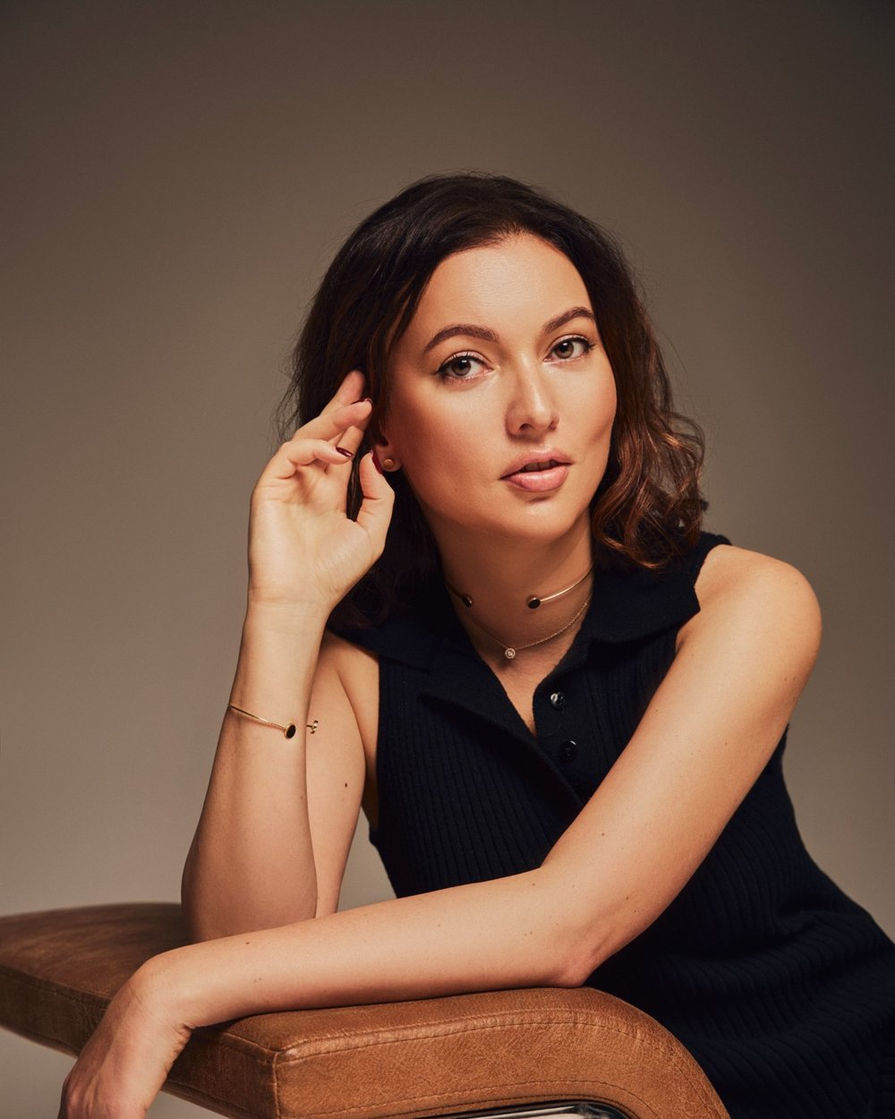
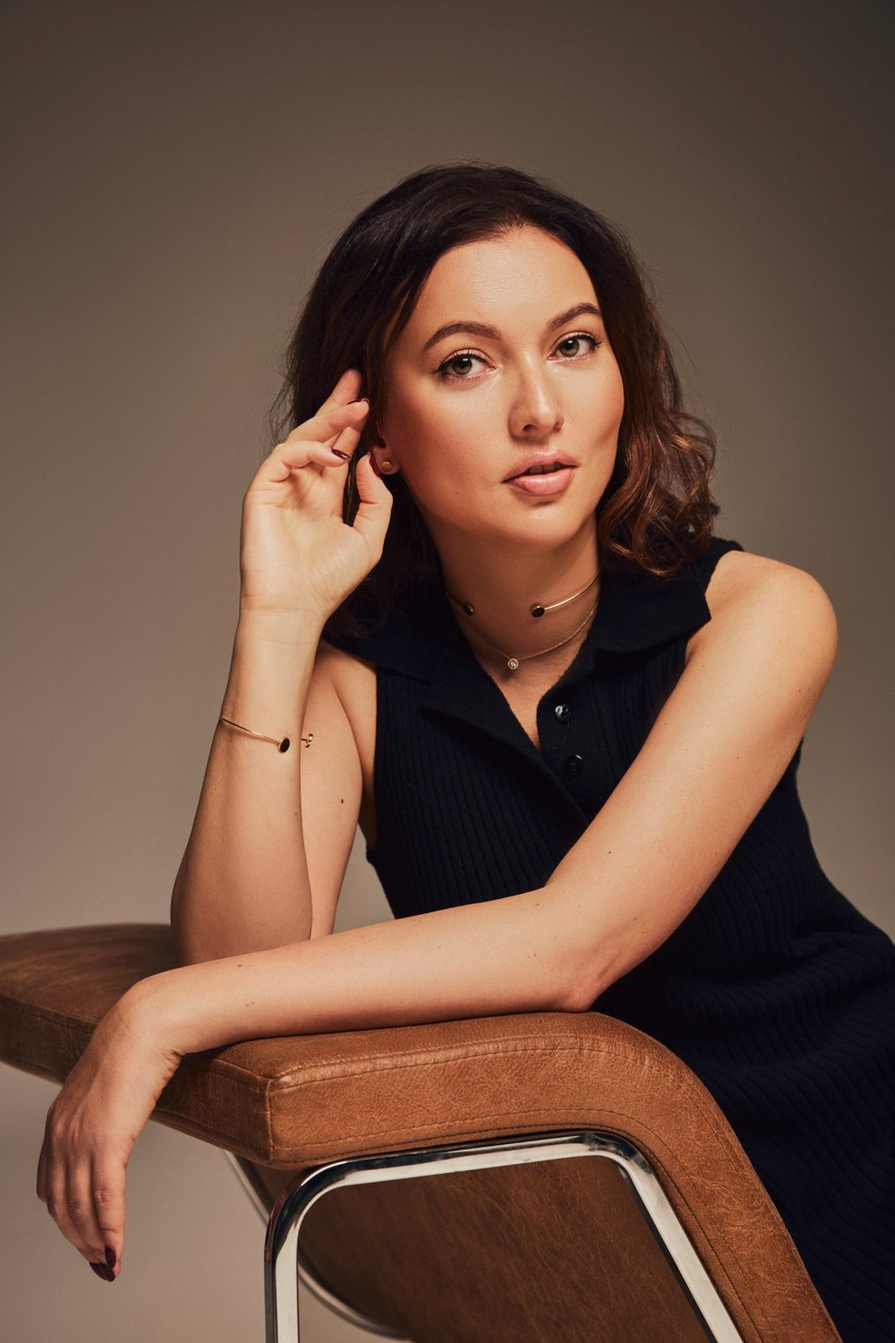
Add files via upload

diff --git a/assets/css/style.css b/assets/css/style.css
@@ -44,7 +44,7 @@
     padding-block: 0 48px;
     -webkit-font-smoothing: antialiased;
   }
-  .wrap { max-width: 1120px; margin-inline: auto; }
+  .wrap { max-width: 1320px; margin-inline: auto; }
   a { color: inherit; }
   a:focus-visible, button:focus-visible { outline: 2px solid var(--accent); outline-offset: 3px; border-radius: 4px; }
 
@@ -394,12 +394,11 @@
 }
 
 /* ---------- portrait & gallery ---------- */
-.portrait { margin: 0; justify-self: end; width: 100%; max-width: 400px; }
+.portrait { margin: 0; justify-self: center; width: 100%; max-width: 440px; padding: 18px; }
 .portrait img {
   display: block;
   width: 100%;
-  aspect-ratio: 4 / 5;
-  object-fit: cover;
+  height: auto;
   border-radius: 6px;
   background: var(--surface);
 }
@@ -429,7 +428,7 @@
 .gallery a:hover img { transform: scale(1.04); }
 @media (max-width: 1000px) { .gallery { grid-template-columns: repeat(2, minmax(0, 1fr)); } }
 @media (prefers-reduced-motion: reduce) { .gallery img { transition: none; } .gallery a:hover img { transform: none; } }
-@media (max-width: 820px) { .portrait { justify-self: start; max-width: 420px; } }
+@media (max-width: 820px) { .portrait { justify-self: start; max-width: 420px; padding: 0; } }
 
 /* ---------- header on narrow screens: full menu on its own row ---------- */
 .bar nav { align-items: center; }

diff --git a/uk/index.html b/uk/index.html
@@ -19,7 +19,7 @@ image: /images/og-card-uk.jpg
       </div>
 
       <figure class="portrait">
-        <img src="{{ '/images/anna-aleshko-portrait-v2.jpg' | relative_url }}" width="1000" height="1250" alt="Студійний портрет Анни Алешко, креативної директорки">
+        <img src="{{ '/images/anna-aleshko-portrait-v2.jpg' | relative_url }}" width="1000" height="1500" alt="Студійний портрет Анни Алешко, креативної директорки">
         <figcaption class="label">Анна Алешко · Київ</figcaption>
       </figure>
     </div>

diff --git a/index.html b/index.html
@@ -18,7 +18,7 @@ image: /images/og-card.jpg
       </div>
 
       <figure class="portrait">
-        <img src="{{ '/images/anna-aleshko-portrait-v2.jpg' | relative_url }}" width="1000" height="1250" alt="Studio portrait of Anna Aleshko, AI-powered creative director">
+        <img src="{{ '/images/anna-aleshko-portrait-v2.jpg' | relative_url }}" width="1000" height="1500" alt="Studio portrait of Anna Aleshko, AI-powered creative director">
         <figcaption class="label">Anna Aleshko · Kyiv</figcaption>
       </figure>
     </div>

diff --git a/uk/_posts/2026-11-08-yak-zaroblyaty-na-ai-u-2026.md b/uk/_posts/2026-11-08-yak-zaroblyaty-na-ai-u-2026.md
@@ -1,0 +1,137 @@
+---
+title: "Як заробляти на AI у 2026: 6 напрямів, які реально платять"
+description: "Повний розбір: де бренди справді платять за роботу з нейромережами, скільки коштують послуги на ринку, як знайти перших клієнтів без портфоліо і яких помилок уникати."
+ref: make-money-with-ai-2026
+image: /images/og-card-uk.jpg
+tags: [AI, заробіток, фриланс, UGC, креативи, нейромережі, 2026]
+---
+
+За останні два роки я чула два протилежні твердження. Перше: «на AI зараз заробляють усі». Друге: «AI забере роботу, і платити більше не будуть». Обидва неправильні.
+
+Правда простіша. Платять не за доступ до нейромережі: він коштує кілька доларів на місяць і є в усіх. Платять за **результат, який клієнт не може отримати сам**: за смак, швидкість і розуміння того, що потрібно бізнесу.
+
+Нижче — шість напрямів, де у 2026 році справді є гроші, з орієнтирами цін, прикладами задач і порядком дій для старту.
+
+## Коротко: що змінилося на ринку
+
+Три роки тому платили за саме вміння користуватися нейромережею. Зараз цим нікого не здивуєш: інструменти є в усіх, інтерфейси стали простими, базова якість зросла.
+
+Тому цінність перемістилася в інше місце:
+
+- **раніше:** «я вмію генерувати зображення»;
+- **тепер:** «я закрию вашу задачу за три дні, у вашому стилі, з правами на використання».
+
+Клієнт платить не за процес, а за зняту з себе проблему. Усе, що написано далі, випливає саме з цього.
+
+## 1. Рекламні креативи для брендів
+
+Найбільший і найстабільніший попит. Бренду потрібна не одна картинка, а десятки варіантів для тестів у таргеті: різні заголовки, сцени, акценти, формати під стрічку й сторіс.
+
+AI змінив тут економіку. Те, що раніше вимагало зйомки й кількох днів ретуші, робиться за день. Бренд платить за те, що завтра зможе запустити кампанію, а не за «генерацію».
+
+**Типові задачі:** серія банерів для запуску, варіації одного креативу для A/B-тесту, сезонне оновлення, адаптація під різні майданчики.
+
+**Орієнтир на ринку:** від $150–200 за набір креативів. Далі ціна залежить від кількості варіацій, термінів і прав на використання.
+
+**Кому продавати:** магазинам, сервісам, застосункам, усім, хто вже витрачає гроші на таргет. Якщо бізнес платить за рекламу, він платитиме і за креативи до неї.
+
+## 2. UGC-відео
+
+Живі відеоогляди, розпаковки, демонстрації продукту. Парадокс 2026 року: що більше навколо згенерованого контенту, то дорожче цінується справжня людина в кадрі.
+
+AI допомагає тут не в кадрі, а навколо нього: сценарії, варіанти перших трьох секунд, субтитри, адаптація одного зйомочного дня під кілька платформ.
+
+**Орієнтир:** [початківці отримують $50–150 за відео, досвідчені креатори — $250–500](https://mate.academy/blog/tips/ugc-creator-is). Українські креатори часто пропонують UGC [від 3 500 грн](https://boginya.pics/).
+
+**Важливо:** UGC — це контент, який бренд отримує й використовує у своїй рекламі. Публікація у вас — окрема послуга й окремі гроші.
+
+## 3. Реклама на власних сторінках
+
+Якщо у вас є аудиторія, ви продаєте не контент, а доступ до неї плюс довіру.
+
+**Орієнтир:** мікроблогери з аудиторією 10–25 тис. беруть [$150–500 за Reels](https://influencerfee.com/blog/instagram-micro-influencer-rates/). В Україні сторіс коштує [від 360 до 2 000 грн, допис — від 1 500 грн](https://web-promo.ua/ua/blog/reklama-v-ukrayinskih-instagram-blogeriv-use-pro-vartist-formati-spivpraci-ta-korist-dlya-brendu/).
+
+**Що впливає на ціну більше за кількість підписників:**
+
+- скільки людей справді дивиться ваші ролики, а не просто підписані;
+- чи купують за вашою рекомендацією;
+- ніша: фінанси, нерухомість і б'юті платять більше за розважальний контент;
+- права на використання: якщо бренд хоче крутити ваш ролик як рекламу зі свого акаунта, це **плюс 30–50%** до ціни за кожен місяць.
+
+## 4. Візуали для продуктів і каталогів
+
+Невеликий бренд не може дозволити собі зйомку в кожній локації й під кожен сезон. AI дає можливість показати той самий товар у десятках середовищ.
+
+Це закриває реальний і регулярний біль: картки товару, банери, обкладинки, оновлення до свят. Робота повторювана, а отже з'являються постійні клієнти, а не разові замовлення.
+
+**Орієнтир:** від $60 за зображення, набори з 10 зображень в одному стилі — від $450.
+
+## 5. Презентації та пітч-деки
+
+Недооцінений напрям із високим чеком. Компанії постійно потребують презентацій для інвесторів, клієнтів і партнерів, а роблять їх зазвичай погано: багато тексту, випадкові шрифти, жодної логіки.
+
+З AI ви швидше збираєте структуру, тексти й візуали. Клієнт бачить різницю між «слайдами» й документом, який продає за нього.
+
+**Орієнтир:** від $250 за презентацію до 15 слайдів зі структурою й текстами.
+
+## 6. Консультації та навчання
+
+Більшість компаній досі не знає, як вбудувати AI у щоденну роботу. Їм не потрібен курс на 40 годин. Їм потрібна людина, яка за дві години покаже це на їхніх власних задачах.
+
+**Формати, які купують:** консультація на годину, аудит контенту чи реклами з письмовим списком дій, воркшоп для команди маркетингу.
+
+**Орієнтир:** від $60 за консультацію, від $300 за воркшоп для команди.
+
+## Як почати без портфоліо
+
+Найчастіше людей зупиняє те, що нема чого показати. Це вирішується за тиждень.
+
+1. **Оберіть один напрям**, а не всі шість. Клієнт шукає спеціаліста під задачу, а не «людину, яка вміє все».
+2. **Зробіть три роботи для себе.** Візьміть реальні бренди, які вам подобаються, і зробіть для них креативи так, ніби вас уже найняли.
+3. **Покажіть процес, а не лише результат.** Було й стало, чому саме така сцена, скільки часу зайняло.
+4. **Напишіть п'яти брендам.** Не «пропоную послуги», а «зробила для вас три варіанти, ось вони, можу зробити ще під ваш запуск».
+5. **Назвіть ціну в першому ж листі.** Це економить час обом і одразу відсіює тих, хто шукає роботу за безцінь.
+
+## П'ять помилок, через які не виходить заробляти
+
+- **Продають інструмент, а не користь.** «Я працюю з Midjourney» нікого не цікавить. «10 креативів для тесту за три дні» — цікавить.
+- **Беруть надто мало.** Низька ціна не приводить хороших клієнтів. Вона приводить тих, хто торгується за кожну правку.
+- **Віддають сирий результат.** Нейромережа дає 80%. Саме останні 20% — ретуш, кадрування, деталі, перевірка тексту на зображенні — відрізняють роботу за $50 від роботи за $300.
+- **Не домовляються про межі.** Скільки кіл правок входить у ціну, що таке «ще один варіант», коли робота вважається завершеною. Без цього будь-який проєкт тягнеться місяцями.
+- **Чекають ідеального моменту.** Ринок рухається швидше за будь-яке навчання. Перший клієнт навчить більшого, ніж третій курс.
+
+## Що насправді дає перевагу у 2026
+
+Доступ до моделей зрівнявся. Залишилося три речі, які не копіюються:
+
+1. **Смак.** Уміння обрати з сотні варіантів той, що працює на бренд. Саме це бренди й купують, коли платять дорожче.
+2. **Швидкість.** Клієнт платить за те, що отримає результат завтра, а не за місяць.
+3. **Розуміння бізнесу.** Коли ви говорите про продажі, аудиторію й терміни, а не про проміпти, змінюється сам рівень розмови й ціна в ній.
+
+## Поширені запитання
+
+**Чи потрібно вміти малювати?**
+Ні. Потрібне око: розуміння композиції, світла й того, що виглядає дешево. Це тренується переглядом хорошої реклами й практикою.
+
+**Скільки часу до перших грошей?**
+За моїми спостереженнями, перше оплачене замовлення зазвичай приходить через 1–2 місяці системної роботи: портфоліо плюс регулярні звернення до брендів. Не через рекламу себе, а через конкретні пропозиції.
+
+**Який інструмент обрати?**
+Будь-який із великих. Важливіше опанувати один глибоко, ніж п'ять поверхово. Для текстів і структури — ChatGPT, Claude або Gemini; для зображень і відео — те, що краще лягає на ваш стиль.
+
+**Чи не зникне ця робота?**
+Зникає рутина, а не робота. Зникне той, хто продає натискання кнопки. Залишиться той, хто відповідає за результат перед бізнесом.
+
+**Як рахувати ціну?**
+Не за годинами, а за цінністю для клієнта й правами на використання. Ролик, який крутитимуть у платній рекламі три місяці, коштує дорожче за той самий ролик для однієї публікації.
+
+## З чого почати цього тижня
+
+- Оберіть один напрям зі списку вище.
+- Зробіть три роботи в портфоліо, навіть без замовника.
+- Напишіть п'яти брендам, чий продукт вам подобається.
+- Зафіксуйте свій прайс і не знижуйте його на перших переговорах.
+
+Мої власні ціни на креативи, UGC, візуали, презентації та консультації відкрито лежать на сторінці [«Послуги та ціни»](/uk/rates/) — можете орієнтуватися на них, формуючи власні. Про те, які задачі бренду закривають AI-візуали, я писала в статті [«AI-візуали в рекламі»](/uk/blog/ai-vizualy-v-reklami-dlia-brendiv/).
+
+Якщо хочете обговорити конкретний проєкт, пишіть на [an.aleshko@gmail.com](mailto:an.aleshko@gmail.com).

diff --git a/_posts/2026-11-08-how-to-make-money-with-ai-in-2026.md b/_posts/2026-11-08-how-to-make-money-with-ai-in-2026.md
@@ -1,0 +1,137 @@
+---
+title: "How to Make Money with AI in 2026: 6 Directions That Actually Pay"
+description: "A full breakdown: where brands really pay for AI work, what the market rates are, how to find first clients without a portfolio, and the mistakes to avoid."
+ref: make-money-with-ai-2026
+image: /images/og-card.jpg
+tags: [AI, freelance, UGC, ad creative, income, prompting, 2026]
+---
+
+For two years I've been hearing two opposite claims. One: everyone is making money with AI now. Two: AI will take the work and nobody will pay for it. Both are wrong.
+
+The truth is simpler. Nobody pays for access to a model — it costs a few dollars a month and everyone has it. People pay for **a result they can't produce themselves**: taste, speed, and an understanding of what a business actually needs.
+
+Below are six directions where the money really is in 2026, with market rates, typical tasks, and a way to start.
+
+## What changed in the market
+
+Three years ago, knowing how to use a model was the skill being paid for. That's over: everyone has the tools, the interfaces got simple, baseline quality went up.
+
+So the value moved:
+
+- **before:** "I can generate images";
+- **now:** "I'll solve this in three days, in your style, with usage rights included."
+
+Clients pay for a problem taken off their plate, not for a process. Everything below follows from that.
+
+## 1. Ad creatives for brands
+
+The biggest and steadiest demand. A brand doesn't need one image, it needs dozens of variations to test in paid ads: different headlines, scenes, emphasis, formats for feed and stories.
+
+AI changed the economics. What used to need a shoot and days of retouching takes a day. The brand is paying to launch tomorrow.
+
+**Typical tasks:** a banner set for a launch, variations for an A/B test, seasonal refresh, adaptation across platforms.
+
+**Market reference:** from $150–200 per set of creatives, scaling with volume, deadlines and usage rights.
+
+**Who to sell to:** shops, services, apps — anyone already spending on paid ads. If a business pays for traffic, it will pay for the creatives behind it.
+
+## 2. UGC video
+
+Honest reviews, unboxings, product demos. The paradox of 2026: the more generated content there is, the more a real person on camera is worth.
+
+AI helps around the frame rather than in it: scripts, hook variations, captions, turning one shooting day into content for several platforms.
+
+**Market reference:** [beginners earn $50–150 per video, experienced creators $250–500](https://mate.academy/blog/tips/ugc-creator-is).
+
+**Important:** UGC is content the brand receives and uses in its own ads. Publishing it on your channels is a separate service with a separate fee.
+
+## 3. Sponsored content on your own channels
+
+If you have an audience, you're not selling content. You're selling access to it, plus the trust attached to you.
+
+**Market reference:** micro creators with 10–25K followers charge [$150–500 per Reel](https://influencerfee.com/blog/instagram-micro-influencer-rates/).
+
+**What moves the price more than follower count:**
+
+- how many people actually watch, not how many follow;
+- whether people buy on your recommendation;
+- your niche — finance, real estate and beauty pay more than entertainment;
+- usage rights: if the brand wants to run your video as an ad from its own account, that's **30–50% more** for every month of use.
+
+## 4. Product and catalogue visuals
+
+A small brand can't shoot in every location and for every season. AI lets the same product appear in dozens of settings.
+
+This solves a recurring pain: product cards, banners, covers, holiday updates. Repetitive work means retained clients instead of one-off jobs.
+
+**Market reference:** from $60 per image; sets of 10 images in one style from $450.
+
+## 5. Presentations and pitch decks
+
+An underrated direction with a high ticket. Companies constantly need decks for investors, clients and partners, and most decks are bad: too much text, random fonts, no logic.
+
+With AI you build structure, copy and visuals far faster. The client sees the difference between "slides" and a document that sells on their behalf.
+
+**Market reference:** from $250 for a deck of up to 15 slides including structure and copy.
+
+## 6. Consulting and training
+
+Most companies still don't know how to fit AI into daily work. They don't want a 40-hour course. They want someone who shows them in two hours, using their own tasks.
+
+**Formats that sell:** a one-hour consultation, an audit of content or ads with a written action list, a workshop for a marketing team.
+
+**Market reference:** from $60 for a consultation, from $300 for a team workshop.
+
+## How to start without a portfolio
+
+What stops most people is having nothing to show. That takes a week to fix.
+
+1. **Pick one direction**, not all six. Clients look for a specialist for a task, not someone who does everything.
+2. **Make three pieces for yourself.** Take real brands you like and make work for them as if you'd been hired.
+3. **Show the process, not just the result.** Before and after, why this scene, how long it took.
+4. **Write to five brands.** Not "I offer services", but "I made three options for you, here they are, I can do more for your launch".
+5. **Name your price in the first message.** It saves everyone time and filters out the people shopping for free work.
+
+## Five mistakes that keep people earning nothing
+
+- **Selling the tool, not the benefit.** "I work with Midjourney" interests no one. "Ten test creatives in three days" does.
+- **Charging too little.** A low price doesn't attract good clients. It attracts the ones who argue over every revision.
+- **Delivering raw output.** The model gives you 80%. The last 20% — retouching, cropping, detail, checking the text inside the image — separates $50 work from $300 work.
+- **Not setting boundaries.** How many revision rounds are included, what counts as "one more version", when the job is done. Without that, projects drag on for months.
+- **Waiting for the perfect moment.** The market moves faster than any course. One real client teaches more than a third one.
+
+## What actually gives you an edge in 2026
+
+Access to models is equal now. Three things still can't be copied:
+
+1. **Taste.** Choosing the one option out of a hundred that works for the brand. That's what the higher fee buys.
+2. **Speed.** Clients pay to have it tomorrow, not next month.
+3. **Business sense.** When you talk about sales, audience and deadlines instead of prompts, the conversation changes price bracket.
+
+## Frequently asked questions
+
+**Do I need to know how to draw?**
+No. You need an eye: composition, light, and a sense of what looks cheap. That's trained by studying good advertising and practising.
+
+**How long until the first money?**
+From what I see, the first paid job usually comes after one or two months of consistent work: a portfolio plus regular, specific outreach — not self-promotion, but concrete offers.
+
+**Which tool should I choose?**
+Any of the major ones. Going deep on one beats skimming five. For text and structure: ChatGPT, Claude or Gemini. For images and video: whatever suits your style best.
+
+**Will this work disappear?**
+The routine disappears, not the work. Whoever sells button-pressing will be replaced. Whoever takes responsibility for a business result won't be.
+
+**How should I price?**
+Not by the hour, but by value to the client and by usage rights. A video that runs in paid ads for three months is worth more than the same video for a single post.
+
+## What to do this week
+
+- Pick one direction from the list.
+- Make three portfolio pieces, even without a client.
+- Write to five brands whose product you genuinely like.
+- Set your price and don't drop it in the first negotiation.
+
+My own rates for creatives, UGC, visuals, presentations and consulting are published openly on the [Services & rates](/rates/) page — use them as a reference for your own. For what AI visuals actually solve for a brand, see [AI Visuals in Advertising](/blog/ai-visuals-for-brands/).
+
+To talk through a specific project, write to [an.aleshko@gmail.com](mailto:an.aleshko@gmail.com).
